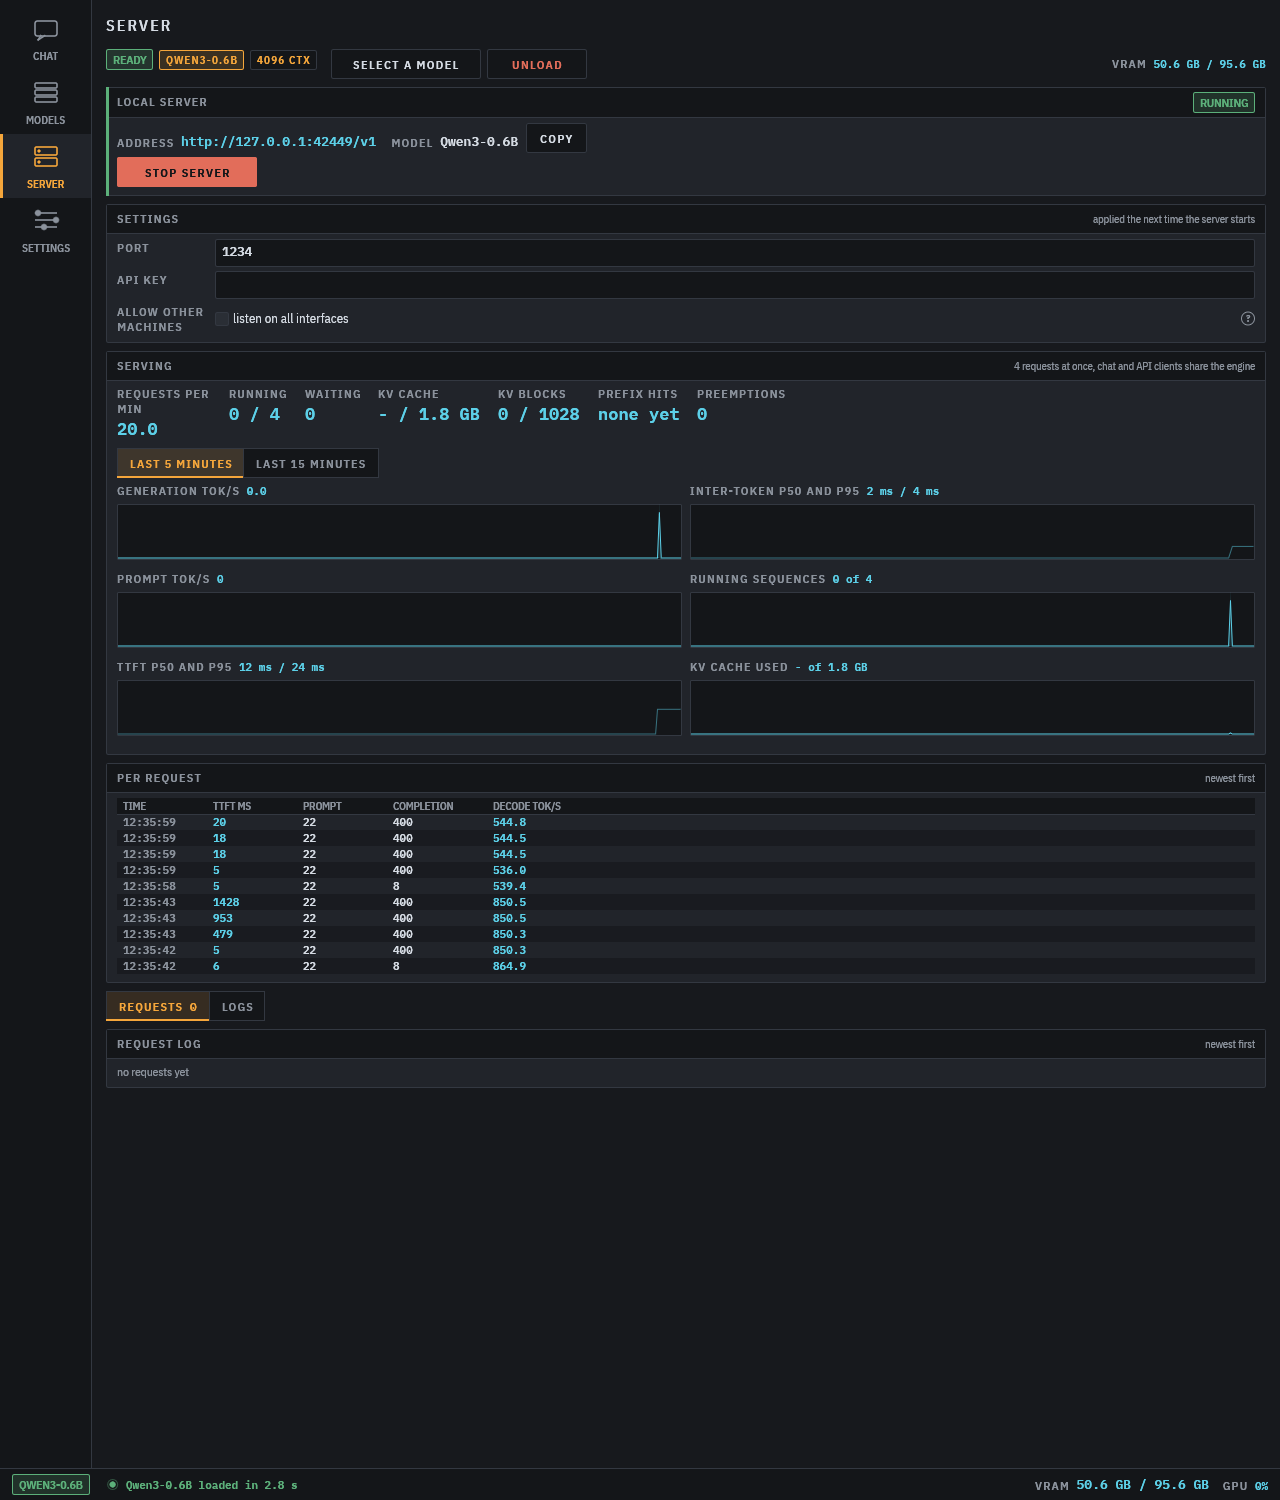
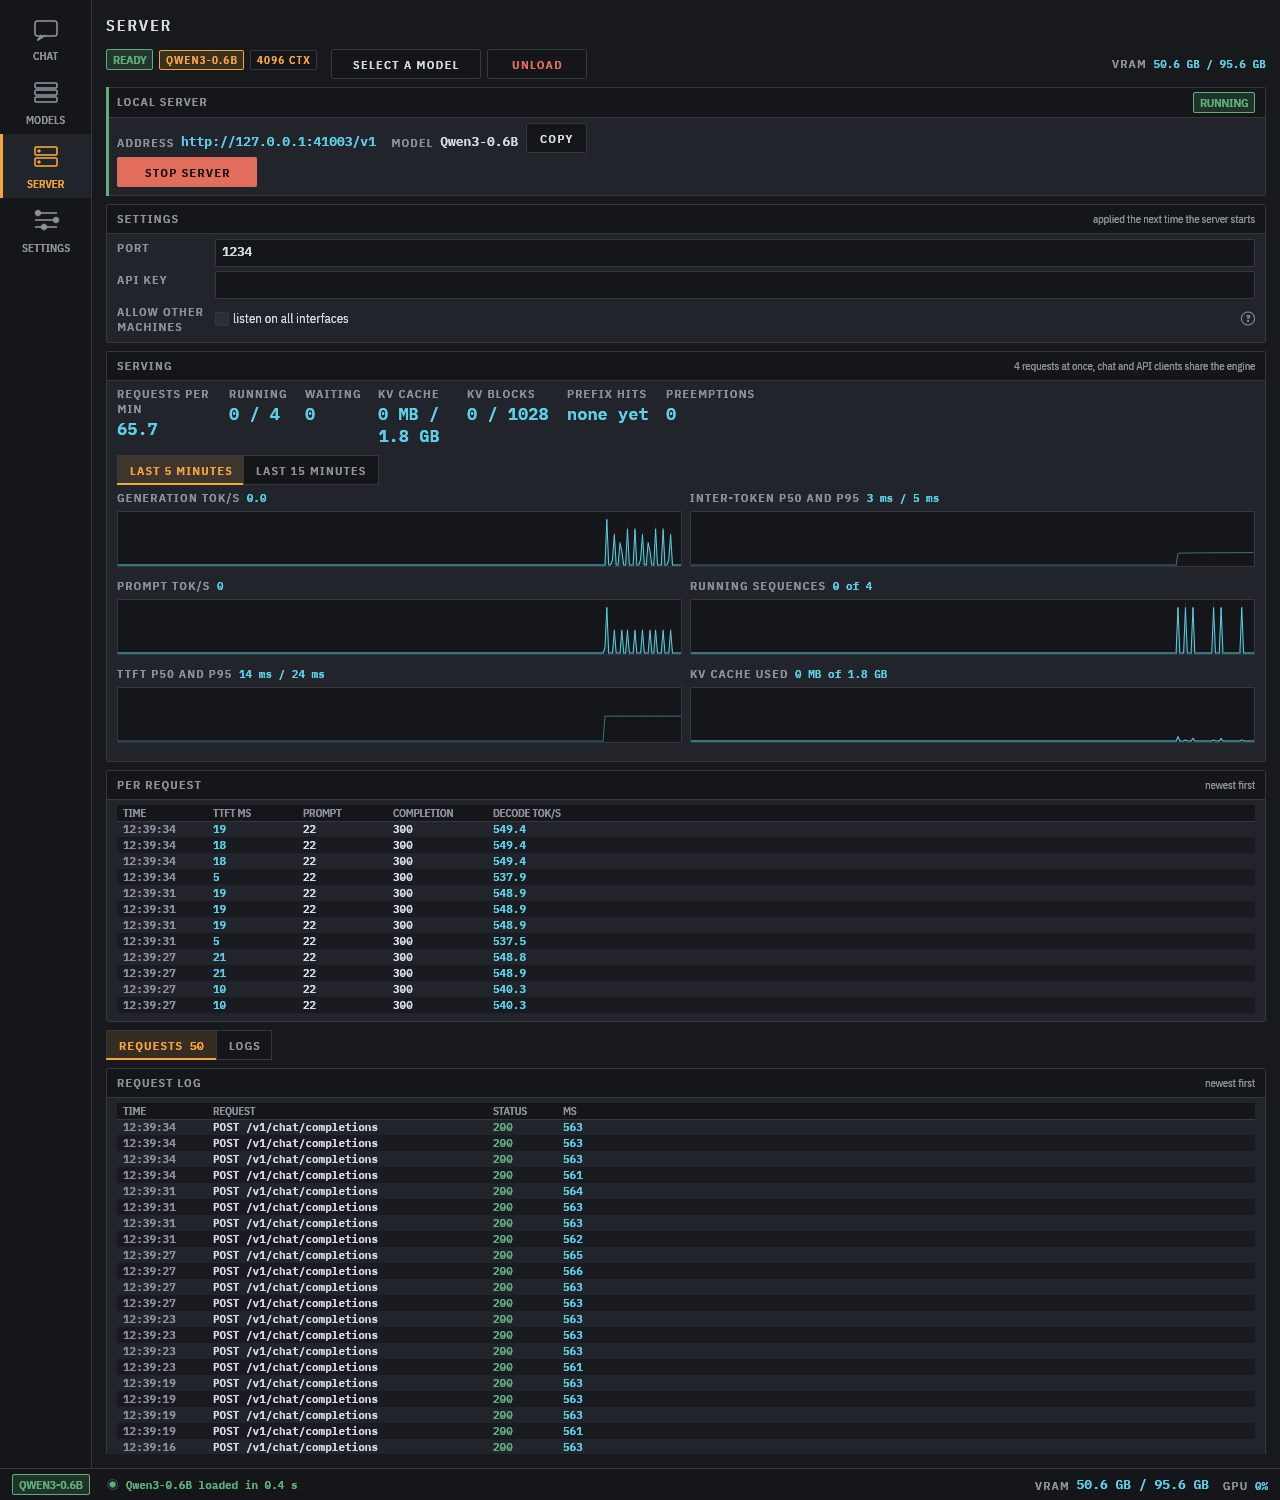
Fix prompt rate, KV used, request log

diff --git a/crates/ui/src/tests.rs b/crates/ui/src/tests.rs
@@ -627,6 +627,7 @@ fn parallel_requests_with_a_real_model_run_together_and_aggregate_faster() {
         egui_bench::install(&cc.egui_ctx);
         let mut app = App::new(d, wake_for(&cc.egui_ctx));
         app.tab = Tab::Server;
+        app.logs = shared_logs();
         app
     });
     pump_until(&mut h, 60, "scan", |a| !a.scan.busy() && !a.library.is_empty());
@@ -658,11 +659,26 @@ fn parallel_requests_with_a_real_model_run_together_and_aggregate_faster() {
         let peak = peak.load(std::sync::atomic::Ordering::SeqCst);
         eprintln!("max_num_seqs {seqs}: 4 concurrent requests, {total} tokens, {rate:.1} tok/s aggregate, running peaked at {peak}");
         rates.push((rate, peak));
-        for _ in 0..12 {
-            h.step();
-            std::thread::sleep(Duration::from_millis(1000));
-        }
         if seqs == 4 {
+            let until = Instant::now() + Duration::from_secs(36);
+            while Instant::now() < until {
+                let u = url.clone();
+                let t = std::thread::spawn(move || burst(&u, 4, 300));
+                while !t.is_finished() {
+                    h.step();
+                    std::thread::sleep(Duration::from_millis(250));
+                }
+                t.join().unwrap();
+                for _ in 0..3 {
+                    h.step();
+                    std::thread::sleep(Duration::from_millis(1000));
+                }
+            }
+            for _ in 0..3 {
+                h.step();
+                std::thread::sleep(Duration::from_millis(1000));
+            }
+
             h.run();
             h.render().unwrap().save(out.join("server-live.png")).unwrap();
         }
@@ -670,6 +686,32 @@ fn parallel_requests_with_a_real_model_run_together_and_aggregate_faster() {
     assert_eq!(rates[0].1, 1);
     assert_eq!(rates[1].1, 4);
     assert!(rates[1].0 > rates[0].0 * 1.5, "{rates:?}");
+    h.state_mut().server.stop();
+}
+
+#[test]
+fn after_a_request_prompt_rate_kv_and_the_request_log_all_show_numbers() {
+    let mut h = serving_harness("after-request", 4);
+    let url = h.state().server.running.as_ref().unwrap().url();
+    chat_once(&url);
+    let start = Instant::now();
+    while !h.state().engine.handle().history().lock().unwrap().points().any(|p| p.prefill_tok_s > 0.0) {
+        assert!(start.elapsed() < Duration::from_secs(10), "prompt tok/s never rose above 0");
+        h.step();
+        std::thread::sleep(Duration::from_millis(100));
+    }
+    h.run();
+    let snap = crate::serving::snapshot(h.state(), crate::serving::Span::Five);
+    assert!(snap.last.as_ref().unwrap().prefill_tok_s > 0.0, "{:?}", snap.last);
+    assert!(snap.prefill.iter().any(|v| *v > 0.0));
+    let r = snap.reading.unwrap();
+    let shown = crate::serving::readings(&r, 0.0);
+    let kv = shown.iter().find(|(l, _, _)| *l == "kv cache").unwrap();
+    assert!(kv.1.starts_with("0 MB / "), "{}", kv.1);
+    assert!(!kv.1.contains('-'), "{}", kv.1);
+    let lines = crate::server::request_lines(&h.state().logs);
+    assert!(lines.iter().any(|l| l.request == "POST /v1/chat/completions" && l.status == 200), "request log has no API request");
+    assert!(h.query_by_label("no requests yet").is_none());
     h.state_mut().server.stop();
 }
 

diff --git a/crates/ui/src/serving.rs b/crates/ui/src/serving.rs
@@ -61,6 +61,13 @@ pub fn snapshot(app: &App, span: Span) -> Snapshot {
     }
 }
 
+fn size(bytes: u64) -> String {
+    match bytes {
+        b if b >= 1 << 30 => format!("{:.1} GB", b as f64 / (1u64 << 30) as f64),
+        b => format!("{:.0} MB", b as f64 / (1u64 << 20) as f64),
+    }
+}
+
 fn percent(num: u64, den: u64) -> Option<String> {
     (den > 0).then(|| format!("{:.0}%", num as f64 * 100.0 / den as f64))
 }
@@ -75,7 +82,7 @@ pub fn readings(r: &Reading, per_minute: f64) -> Vec<(&'static str, String, egui
         let block = s.kv_block_bytes as u64;
         out.push((
             "kv cache",
-            format!("{} / {}", human_size(s.kv_blocks_used as u64 * block), human_size(s.kv_blocks_total as u64 * block)),
+            format!("{} / {}", size(s.kv_blocks_used as u64 * block), size(s.kv_blocks_total as u64 * block)),
             TRACE,
         ));
         out.push(("kv blocks", format!("{} / {}", s.kv_blocks_used, s.kv_blocks_total), TRACE));
@@ -121,7 +128,7 @@ fn charts(ui: &mut egui::Ui, s: &Snapshot, max_seqs: usize, with_kv: bool) {
         chart(&mut cols[1], "inter-token p50 and p95", format!("{} / {}", ms(p.itl_p50), ms(p.itl_p95)), &[&s.itl_p50, &s.itl_p95], 20.0);
         chart(&mut cols[1], "running sequences", format!("{} of {max_seqs}", p.running), &[&s.running], max_seqs.max(1) as f32);
         if with_kv {
-            let used = format!("{} of {}", human_size(kv_used as u64), human_size(kv_total as u64));
+            let used = format!("{} of {}", size(kv_used as u64), size(kv_total as u64));
             chart(&mut cols[1], "kv cache used", used, &[&s.kv], (kv_total / (1u64 << 30) as f64).max(0.1) as f32);
         }
     });

diff --git a/crates/core/src/live.rs b/crates/core/src/live.rs
@@ -158,7 +158,7 @@ impl Tracked {
     pub fn finish(self, g: &Generation) {
         let mut m = self.meter.inner.lock().unwrap();
         m.generated += g.completion_tokens.saturating_sub(self.pieces);
-        m.prefilled += g.prompt_tokens.saturating_sub(g.cached_tokens);
+        m.prefilled += g.prompt_tokens;
         m.requests += 1;
         let decode_tok_s = match g.decode_secs > 0.0 {
             true => g.completion_tokens.saturating_sub(1) as f64 / g.decode_secs,
@@ -195,10 +195,11 @@ impl Meter {
             Some(s) => (s.running, s.waiting + self.pending()),
             None => (self.running(), self.pending()),
         };
-        let (generated, prefilled, itl) = match &serving {
-            Some(s) => (s.generated_tokens, s.prefill_tokens_per_step.sum as u64, s.inter_token_secs.clone()),
-            None => (m.generated, m.prefilled, m.itl.clone()),
+        let (generated, itl) = match &serving {
+            Some(s) => (s.generated_tokens, s.inter_token_secs.clone()),
+            None => (m.generated, m.itl.clone()),
         };
+        let prefilled = m.prefilled;
         Reading { generated, prefilled, requests: m.requests, running, waiting, max_seqs, ttft: m.ttft.clone(), itl, serving }
     }
 }
@@ -421,6 +422,6 @@ mod tests {
         s.prefill_tokens_per_step.observe(100.0);
         s.prefill_tokens_per_step.observe(50.0);
         let r = meter.read(4, Some(s));
-        assert_eq!((r.running, r.waiting, r.prefilled, r.generated), (3, 2, 150, 40));
+        assert_eq!((r.running, r.waiting, r.prefilled, r.generated), (3, 2, 0, 40));
     }
 }

diff --git a/crates/ui/src/server.rs b/crates/ui/src/server.rs
@@ -109,14 +109,14 @@ impl ServerState {
     }
 }
 
-struct RequestLine {
-    time: String,
-    request: String,
-    status: u16,
-    ms: String,
+pub struct RequestLine {
+    pub time: String,
+    pub request: String,
+    pub status: u16,
+    pub ms: String,
 }
 
-fn request_lines(logs: &LogBuffer) -> Vec<RequestLine> {
+pub fn request_lines(logs: &LogBuffer) -> Vec<RequestLine> {
     logs.snapshot(Level::INFO, "request finished")
         .iter()
         .rev()
